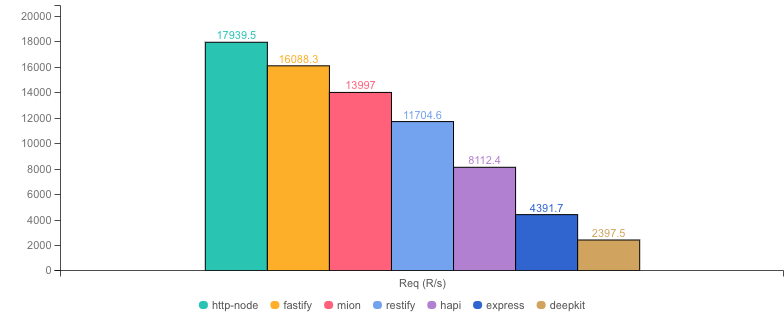
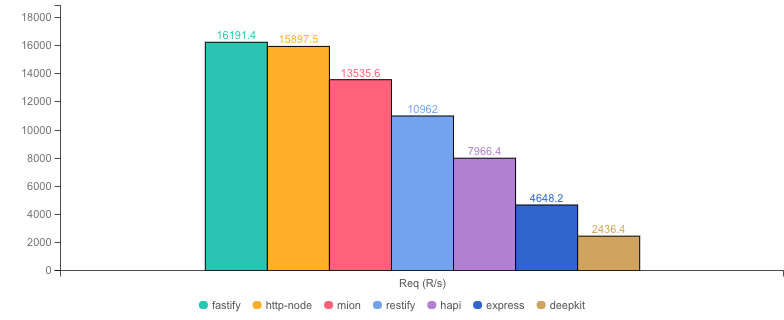
add memory and cpu metrics 📈

diff --git a/benchmark-compare.js b/benchmark-compare.js
@@ -111,13 +111,26 @@ function compareResults(markdown, outputResults) {
       "Req (R/s)",
       "Latency (ms)",
       "Output (Mb/s)",
+      "Max Memory (Mb)",
+      "Max Cpu (%)",
       "Validation",
       "Description",
     ],
   });
 
   if (markdown) {
-    table.push([":--", "--:", "--:", ":-:", "--:", "--:", ":-:", ":--"]);
+    table.push([
+      ":--",
+      "--:",
+      "--:",
+      ":-:",
+      "--:",
+      "--:",
+      "--:",
+      "--:",
+      ":-:",
+      ":--",
+    ]);
   }
   const results = outputResults || getOutputResults();
 
@@ -130,6 +143,8 @@ function compareResults(markdown, outputResults) {
       bold(beBold, result.requests, markdown),
       bold(beBold, result.latency, markdown),
       bold(beBold, result.throughput, markdown),
+      bold(beBold, result.maxMem, markdown),
+      bold(beBold, result.maxCpu, markdown),
       bold(beBold, result.validation, markdown),
       bold(beBold, result.description, markdown),
     ]);
@@ -164,6 +179,8 @@ function getOutputResults() {
       throughput: formatThroughput(throughput),
       validation,
       description: description,
+      maxMem: (result.maxMem / 1000_000).toFixed(0),
+      maxCpu: result.maxCpu.toFixed(0),
     });
   }
 
@@ -237,6 +254,8 @@ async function getMarkdownCharts(outputResults) {
     { metricName: "requests", metricLabel: "Req (R/s)" },
     { metricName: "throughput", metricLabel: "Throughput (Mb/s)" },
     { metricName: "latency", metricLabel: "Latency (ms)" },
+    { metricName: "maxMem", metricLabel: "Max Memory (Mb)" },
+    { metricName: "maxCpu", metricLabel: "Max Cpu (%)" },
   ];
 
   const results = await Promise.all(

diff --git a/lib/autocannon.js b/lib/autocannon.js
@@ -5,7 +5,7 @@ const fs = require("fs");
 const compare = require("autocannon-compare");
 const path = require("path");
 const { promisify } = require("util");
-
+const pidusage = require("pidusage");
 const writeFile = promisify(fs.writeFile);
 const mkdir = promisify(fs.mkdir);
 const access = promisify(fs.access);
@@ -27,11 +27,33 @@ const run = (opts = {}, handler) =>
       "Content-Type": "application/json",
       "Content-Length": opts.body.length,
     };
+    let maxMem = 0;
+    let maxCpu = 0;
+    const memCheck = setInterval(() => {
+      pidusage(opts.forkedPid, (err, stats) => {
+        if (err) {
+          console.log(err);
+        } else {
+          if (stats.memory > maxMem) {
+            maxMem = stats.memory;
+          }
+          if (stats.cpu > maxCpu) {
+            maxCpu = stats.cpu;
+          }
+        }
+      });
+    }, 500);
     autocannon(opts, (err, result) => {
+      clearInterval(memCheck);
       if (err) {
         reject(err);
       } else {
-        resolve(result);
+        const r = {
+          ...result,
+          maxMem,
+          maxCpu,
+        };
+        resolve(r);
       }
     });
   });

diff --git a/lib/bench.js b/lib/bench.js
@@ -9,10 +9,14 @@ const { fire } = require("./autocannon");
 const doBench = async (opts, handler) => {
   const spinner = ora(`Started ${handler}`).start();
   const forked = fork(path.join(__dirname, "..", "benchmarks", handler));
+  const options = {
+    forkedPid: forked.pid,
+    ...opts,
+  };
   try {
     spinner.color = "magenta";
     spinner.text = `Warming ${handler}`;
-    await fire(opts, handler, false);
+    await fire(options, handler, false);
   } catch (error) {
     return console.log(error);
   } finally {
@@ -21,7 +25,7 @@ const doBench = async (opts, handler) => {
   }
 
   try {
-    await fire(opts, handler, true);
+    await fire(options, handler, true);
     forked.kill("SIGINT");
     spinner.text = `Results saved for ${handler}`;
     spinner.succeed();

diff --git a/README.md b/README.md
@@ -43,8 +43,6 @@ Cold start times are also indicative of how the [serverless version](https://git
 
 ## What's tested
 
-We are not just testing a simple "hello world", we are testing a more realistic scenario of api requests.
-
 The test consist of an `updateUser` request where the fields of the user must be validated, the `lastUpdate` field is a date that must be transformed into a JS Date (deserialized), and the same user must be returned back with an updated `lastUpdate` to the time of the request.
 
 ```ts
@@ -86,7 +84,7 @@ app.post("/updateUser", function (req, res) {
 
 * __Machine:__ darwin x64 | 8 vCPUs | 16.0GB Mem
 * __Node:__ `v16.18.0`
-* __Run:__ Sat Jul 08 2023 16:48:30 GMT+0100 (Irish Standard Time)
+* __Run:__ Sat Jul 08 2023 20:44:57 GMT+0100 (Irish Standard Time)
 * __Method:__ `autocannon -c 100 -d 40 -p 10 localhost:3000` (two rounds; one to warm-up, one to measure)
 
 #### Req (R/s) 
@@ -107,12 +105,24 @@ app.post("/updateUser", function (req, res) {
 
 
 
-|           | Version        | Router | Req (R/s)   | Latency (ms) | Output (Mb/s) | Validation | Description                                                                                                |
-| :--       | --:            | --:    | :-:         | --:          | --:           | :-:        | :--                                                                                                        |
-| http-node | 16.18.0        | ✗      | 17939.5     | 55.19        | 4.60          | ✗          | Super basic and completely useless bare http server, should be the theoretical upper limit in performance. |
-| fastify   | 4.19.2         | ✓      | 16088.3     | 61.62        | 4.14          | -          | Validation is done using schemas and ajv. Schemas must be generated manually or using third party tools.   |
-| **mion**  | **0.1.0**      | **✓**  | **13997.0** | **70.89**    | **3.88**      | **✓**      | **Automatic validation out of the box using @deepkit/types.**                                              |
-| restify   | 8.6.1          | ✓      | 11704.6     | 84.90        | 3.02          | ✗          | Requires third party tools.                                                                                |
-| hapi      | 20.3.0         | ✓      | 8112.4      | 122.62       | 2.08          | ✗          | Manual validation using joi, or third party tools.                                                         |
-| express   | 4.18.2         | ✓      | 4391.7      | 226.67       | 1.13          | ✗          | needs third party tools, or third party tools                                                              |
-| deepkit   | 1.0.1-alpha.75 | ✓      | 2397.5      | 415.83       | 0.61          | ✓          | Automatic validation out of the box (The ones that made @deepkit/types), Their rpc is way more performant. |
+#### Max Memory (Mb) 
+
+![benchmarks](assets/public/charts/maxMem.png)
+
+
+
+#### Max Cpu (%) 
+
+![benchmarks](assets/public/charts/maxCpu.png)
+
+
+
+|           | Version        | Router | Req (R/s)   | Latency (ms) | Output (Mb/s) | Max Memory (Mb) | Max Cpu (%) | Validation | Description                                                                                                |
+| :--       | --:            | --:    | :-:         | --:          | --:           | --:             | --:         | :-:        | :--                                                                                                        |
+| fastify   | 4.19.2         | ✓      | 16191.4     | 61.24        | 4.17          | 90              | 68          | -          | Validation is done using schemas and ajv. Schemas must be generated manually or using third party tools.   |
+| http-node | 16.18.0        | ✗      | 15897.5     | 62.41        | 4.08          | 80              | 69          | ✗          | Super basic and completely useless bare http server, should be the theoretical upper limit in performance. |
+| **mion**  | **0.1.0**      | **✓**  | **13535.6** | **73.37**    | **3.76**      | **186**         | **75**      | **✓**      | **Automatic validation out of the box using @deepkit/types.**                                              |
+| restify   | 8.6.1          | ✓      | 10962.0     | 90.99        | 2.83          | 106             | 53          | ✗          | Requires third party tools.                                                                                |
+| hapi      | 20.3.0         | ✓      | 7966.4      | 124.90       | 2.04          | 101             | 72          | ✗          | Manual validation using joi, or third party tools.                                                         |
+| express   | 4.18.2         | ✓      | 4648.2      | 214.14       | 1.19          | 111             | 65          | ✗          | needs third party tools, or third party tools                                                              |
+| deepkit   | 1.0.1-alpha.75 | ✓      | 2436.4      | 410.82       | 0.62          | 284             | 64          | ✓          | Automatic validation out of the box (The ones that made @deepkit/types), Their rpc is way more performant. |

diff --git a/METRICS.md b/METRICS.md
@@ -9,7 +9,7 @@ Cold start times are also indicative of how the [serverless version](https://git
 ## Metrics
 * __Machine:__ darwin x64 | 8 vCPUs | 16.0GB Mem
 * __Node:__ `v16.18.0`
-* __Run:__ Sat Jul 08 2023 19:13:39 GMT+0100 (Irish Standard Time)
+* __Run:__ Sat Jul 08 2023 20:09:04 GMT+0100 (Irish Standard Time)
 * __Method:__ `npm run metrics` (samples: 5)
 * __startup:__ time elapsed to setup the application
 * __listen:__ time elapsed until the http server is ready to accept requests (cold start)
